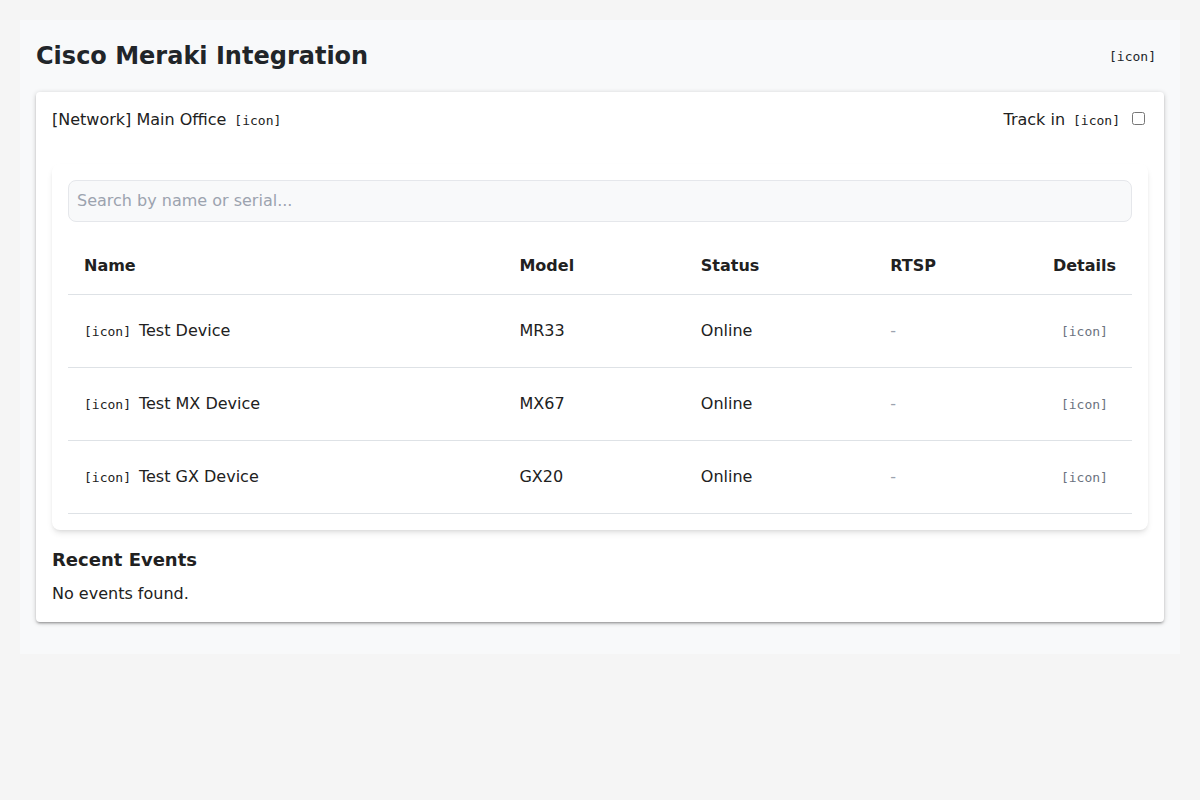
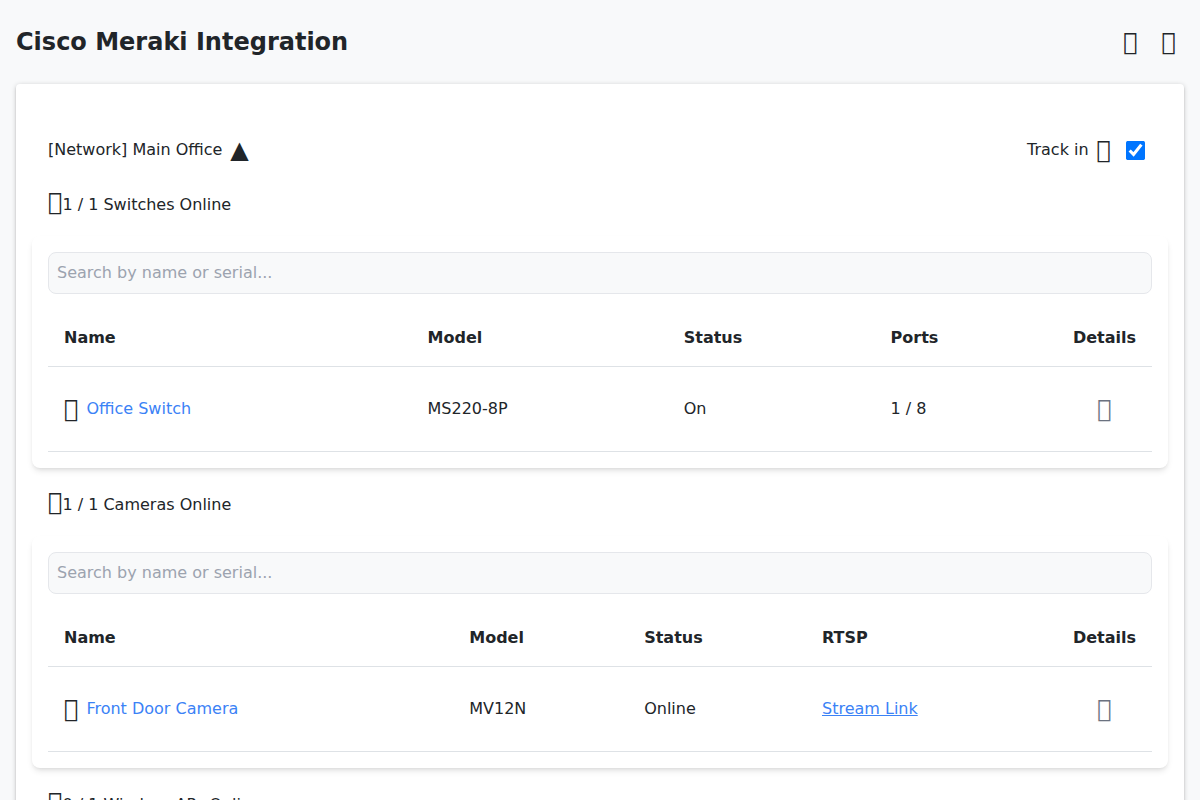
chore(ci): Add automatic screenshot generation to CI pipeline
- Added `scripts/generate_screenshots.py` to generate screenshots using Playwright.
- Updated `production-version-update.yaml` and `beta-version-update.yaml` to run the screenshot script and commit the results.
- Screenshots are saved to `docs/images/`.

diff --git a/scripts/generate_screenshots.py b/scripts/generate_screenshots.py
@@ -1,0 +1,257 @@
+"""Script to generate screenshots for the README."""
+import http.server
+import json
+import os
+import socketserver
+import threading
+import time
+from functools import partial
+from playwright.sync_api import sync_playwright
+
+TEST_PORT = 9988
+MOCK_SETTINGS = {"scan_interval": 300, "enable_device_status": True}
+REPO_ROOT = os.getcwd()
+SCREENSHOT_DIR = os.path.join(REPO_ROOT, "docs", "images")
+WWW_DIR = os.path.join(REPO_ROOT, "custom_components", "meraki_ha", "www")
+
+# Mock Data designed to produce a nice looking screenshot
+MOCK_DATA = {
+    "networks": [
+        {
+            "id": "N_12345",
+            "name": "Main Office",
+            "productTypes": ["switch", "camera", "wireless"],
+            "tags": [],
+            "enrollmentString": None,
+            "url": "https://dashboard.meraki.com",
+            "timeZone": "America/Los_Angeles",
+            "is_enabled": True,
+            "ssids": [
+                {
+                    "number": 0,
+                    "name": "Guest WiFi",
+                    "enabled": True,
+                    "networkId": "N_12345",
+                    "entity_id": "switch.guest_wifi",
+                    "psk_entity_id": None,
+                    "visible": True,
+                    "authMode": "open"
+                }
+            ],
+        }
+    ],
+    "devices": [
+        {
+            "serial": "Q234-ABCD-SW1",
+            "name": "Office Switch",
+            "model": "MS220-8P",
+            "networkId": "N_12345",
+            "productType": "switch",
+            "status": "online",
+            "firmware": "switch-14-31",
+            "lanIp": "192.168.1.2",
+            "mac": "00:11:22:33:44:55",
+            "ports_statuses": [
+                {"portId": "1", "status": "Connected", "enabled": True, "speed": "1 Gbps", "duplex": "full", "usageInKb": {"total": 123456}, "poe": {"enabled": True}, "powerUsageInWh": 10.5},
+                {"portId": "2", "status": "Disconnected", "enabled": True, "poe": {"enabled": True}},
+                {"portId": "3", "status": "Disconnected", "enabled": True, "poe": {"enabled": True}},
+                {"portId": "4", "status": "Disconnected", "enabled": True, "poe": {"enabled": True}},
+                {"portId": "5", "status": "Disconnected", "enabled": True, "poe": {"enabled": True}},
+                {"portId": "6", "status": "Disconnected", "enabled": True, "poe": {"enabled": True}},
+                {"portId": "7", "status": "Disconnected", "enabled": True, "poe": {"enabled": True}},
+                {"portId": "8", "status": "Disconnected", "enabled": True, "poe": {"enabled": True}},
+            ],
+            "entity_id": "switch.office_switch",
+        },
+        {
+            "serial": "Q234-ABCD-CAM1",
+            "name": "Front Door Camera",
+            "model": "MV12N",
+            "networkId": "N_12345",
+            "productType": "camera",
+            "status": "online",
+            "firmware": "camera-4-15",
+            "lanIp": "192.168.1.50",
+            "mac": "00:11:22:33:44:56",
+            "entity_id": "camera.front_door_camera",
+            "rtsp_url": "rtsp://192.168.1.50:9000/live",
+        },
+        {
+            "serial": "Q234-ABCD-AP1",
+            "name": "Lobby AP",
+            "model": "MR33",
+            "networkId": "N_12345",
+            "productType": "wireless",
+            "status": "online",
+            "firmware": "wireless-28-5",
+            "lanIp": "192.168.1.10",
+            "mac": "00:11:22:33:44:57",
+            "entity_id": "update.lobby_ap_firmware",
+        },
+    ],
+    "options": MOCK_SETTINGS,
+}
+
+class ReuseAddrTCPServer(socketserver.TCPServer):
+    allow_reuse_address = True
+
+def run_server():
+    # Create index.html for testing in the WWW_DIR
+    with open(os.path.join(WWW_DIR, "screenshot_index.html"), "w") as f:
+        f.write("""
+            <!DOCTYPE html>
+            <html>
+            <head>
+                <meta charset="utf-8">
+                <title>Meraki Panel</title>
+                <style>
+                    body { margin: 0; padding: 0; background-color: var(--primary-background-color, #fafafa); }
+                </style>
+                <script>
+                    window.Hass = {
+                        callWS: () => Promise.resolve({}),
+                    };
+                </script>
+            </head>
+            <body>
+                <script type="module" src="/meraki-panel.js"></script>
+            </body>
+            </html>
+        """)
+
+    Handler = partial(http.server.SimpleHTTPRequestHandler, directory=WWW_DIR)
+    httpd = ReuseAddrTCPServer(("", TEST_PORT), Handler)
+    try:
+        httpd.serve_forever()
+    except OSError:
+        pass # Handle case where port is already in use or server shuts down
+
+def generate_screenshots():
+    # Start Server in thread
+    server_thread = threading.Thread(target=run_server)
+    server_thread.daemon = True
+    server_thread.start()
+
+    # Give server a moment to start
+    time.sleep(2)
+
+    with sync_playwright() as p:
+        browser = p.chromium.launch()
+        page = browser.new_page(viewport={"width": 1200, "height": 800})
+
+        # Define Custom Elements and Mock HASS similar to test
+        page.add_init_script(f"""
+            const MOCK_DATA = {json.dumps(MOCK_DATA)};
+
+            class HACard extends HTMLElement {{
+                constructor() {{ super(); this.attachShadow({{mode: 'open'}}); }}
+                connectedCallback() {{
+                    this.shadowRoot.innerHTML = `
+                        <style>
+                            :host {{ display: block; background: white; border-radius: 4px; box-shadow: 0 2px 2px 0 rgba(0,0,0,0.14), 0 3px 1px -2px rgba(0,0,0,0.12), 0 1px 5px 0 rgba(0,0,0,0.2); color: var(--primary-text-color); margin-bottom: 16px; }}
+                            .card-header {{ padding: 16px 16px 0; font-size: 24px; line-height: 32px; color: var(--primary-text-color); }}
+                            .card-content {{ padding: 16px; }}
+                        </style>
+                        <div class="card-header"><slot name="header"></slot></div>
+                        <div class="card-content"><slot></slot></div>
+                    `;
+                }}
+            }}
+            class HAIcon extends HTMLElement {{
+                constructor() {{ super(); this.attachShadow({{mode: 'open'}}); }}
+                connectedCallback() {{
+                    const icon = this.getAttribute('icon');
+                    // Simple mock representation of icons
+                    let symbol = '📱';
+                    if (icon && icon.includes('switch')) symbol = '🔌';
+                    if (icon && icon.includes('camera')) symbol = '📹';
+                    if (icon && icon.includes('wifi')) symbol = '📶';
+                    if (icon && icon.includes('chevron-down')) symbol = '▼';
+                    if (icon && icon.includes('chevron-up')) symbol = '▲';
+
+                    this.shadowRoot.innerHTML = `<span style="font-family: sans-serif; font-size: 24px;">${{symbol}}</span>`;
+                }}
+                static get observedAttributes() {{ return ['icon']; }}
+                attributeChangedCallback(name, oldValue, newValue) {{
+                    this.connectedCallback();
+                }}
+            }}
+            class HASwitch extends HTMLElement {{
+                constructor() {{ super(); this.attachShadow({{mode: 'open'}}); }}
+                connectedCallback() {{
+                    this.shadowRoot.innerHTML = `<input type="checkbox" style="transform: scale(1.5); margin: 10px;" />`;
+                    const input = this.shadowRoot.querySelector('input');
+                    input.checked = this.hasAttribute('checked');
+                }}
+            }}
+
+             if (!customElements.get('ha-card')) customElements.define('ha-card', HACard);
+             if (!customElements.get('ha-icon')) customElements.define('ha-icon', HAIcon);
+             if (!customElements.get('ha-switch')) customElements.define('ha-switch', HASwitch);
+
+            document.addEventListener('DOMContentLoaded', () => {{
+                const panel = document.createElement('meraki-panel');
+                document.body.appendChild(panel);
+                panel.panel = {{ config: {{ config_entry_id: 'test' }} }};
+                panel.hass = {{
+                    states: {{
+                        "switch.office_switch": {{ state: "on", attributes: {{}} }},
+                        "camera.front_door_camera": {{ state: "idle", attributes: {{}} }},
+                        "switch.guest_wifi": {{ state: "on", attributes: {{}} }},
+                        "update.lobby_ap_firmware": {{ state: "off", attributes: {{}} }}
+                    }},
+                    callWS: async (msg) => {{
+                        if (msg.type === 'meraki_ha/get_config') return MOCK_DATA;
+                        return {{}};
+                    }},
+                    callService: async () => {{}},
+                    themes: {{ darkMode: false }}
+                }};
+            }});
+        """)
+
+        page.goto(f"http://127.0.0.1:{TEST_PORT}/screenshot_index.html")
+
+        # Wait for content
+        page.wait_for_selector("ha-card")
+        page.wait_for_timeout(3000) # Wait for animations/rendering
+
+        # Expand Network
+        network_card = page.locator("ha-card").first
+        expand_button = network_card.locator("ha-icon[icon='mdi:chevron-down']")
+        if expand_button.is_visible():
+            expand_button.click()
+
+        page.wait_for_timeout(1000)
+
+        # Take Network View Screenshot
+        # We want to capture the main area
+        os.makedirs(SCREENSHOT_DIR, exist_ok=True)
+        page.screenshot(path=os.path.join(SCREENSHOT_DIR, "network_view.png"))
+        print(f"Saved {os.path.join(SCREENSHOT_DIR, 'network_view.png')}")
+
+        # Navigate to Device Detail
+        switch_row = page.locator("tr", has_text="Office Switch")
+        details_button = switch_row.locator("button[title='View Details']")
+        if details_button.count() > 0:
+             details_button.click()
+        else:
+             # Fallback: click the row cell that is NOT the name
+             switch_row.locator("td").nth(2).click()
+
+        page.wait_for_selector("text=Entities")
+        page.wait_for_timeout(2000)
+
+        # Take Device Detail Screenshot
+        page.screenshot(path=os.path.join(SCREENSHOT_DIR, "device_detail_view.png"))
+        print(f"Saved {os.path.join(SCREENSHOT_DIR, 'device_detail_view.png')}")
+
+        browser.close()
+
+if __name__ == "__main__":
+    try:
+        generate_screenshots()
+    finally:
+        index_path = os.path.join(WWW_DIR, "screenshot_index.html")
+        if os.path.exists(index_path):
+            os.remove(index_path)
